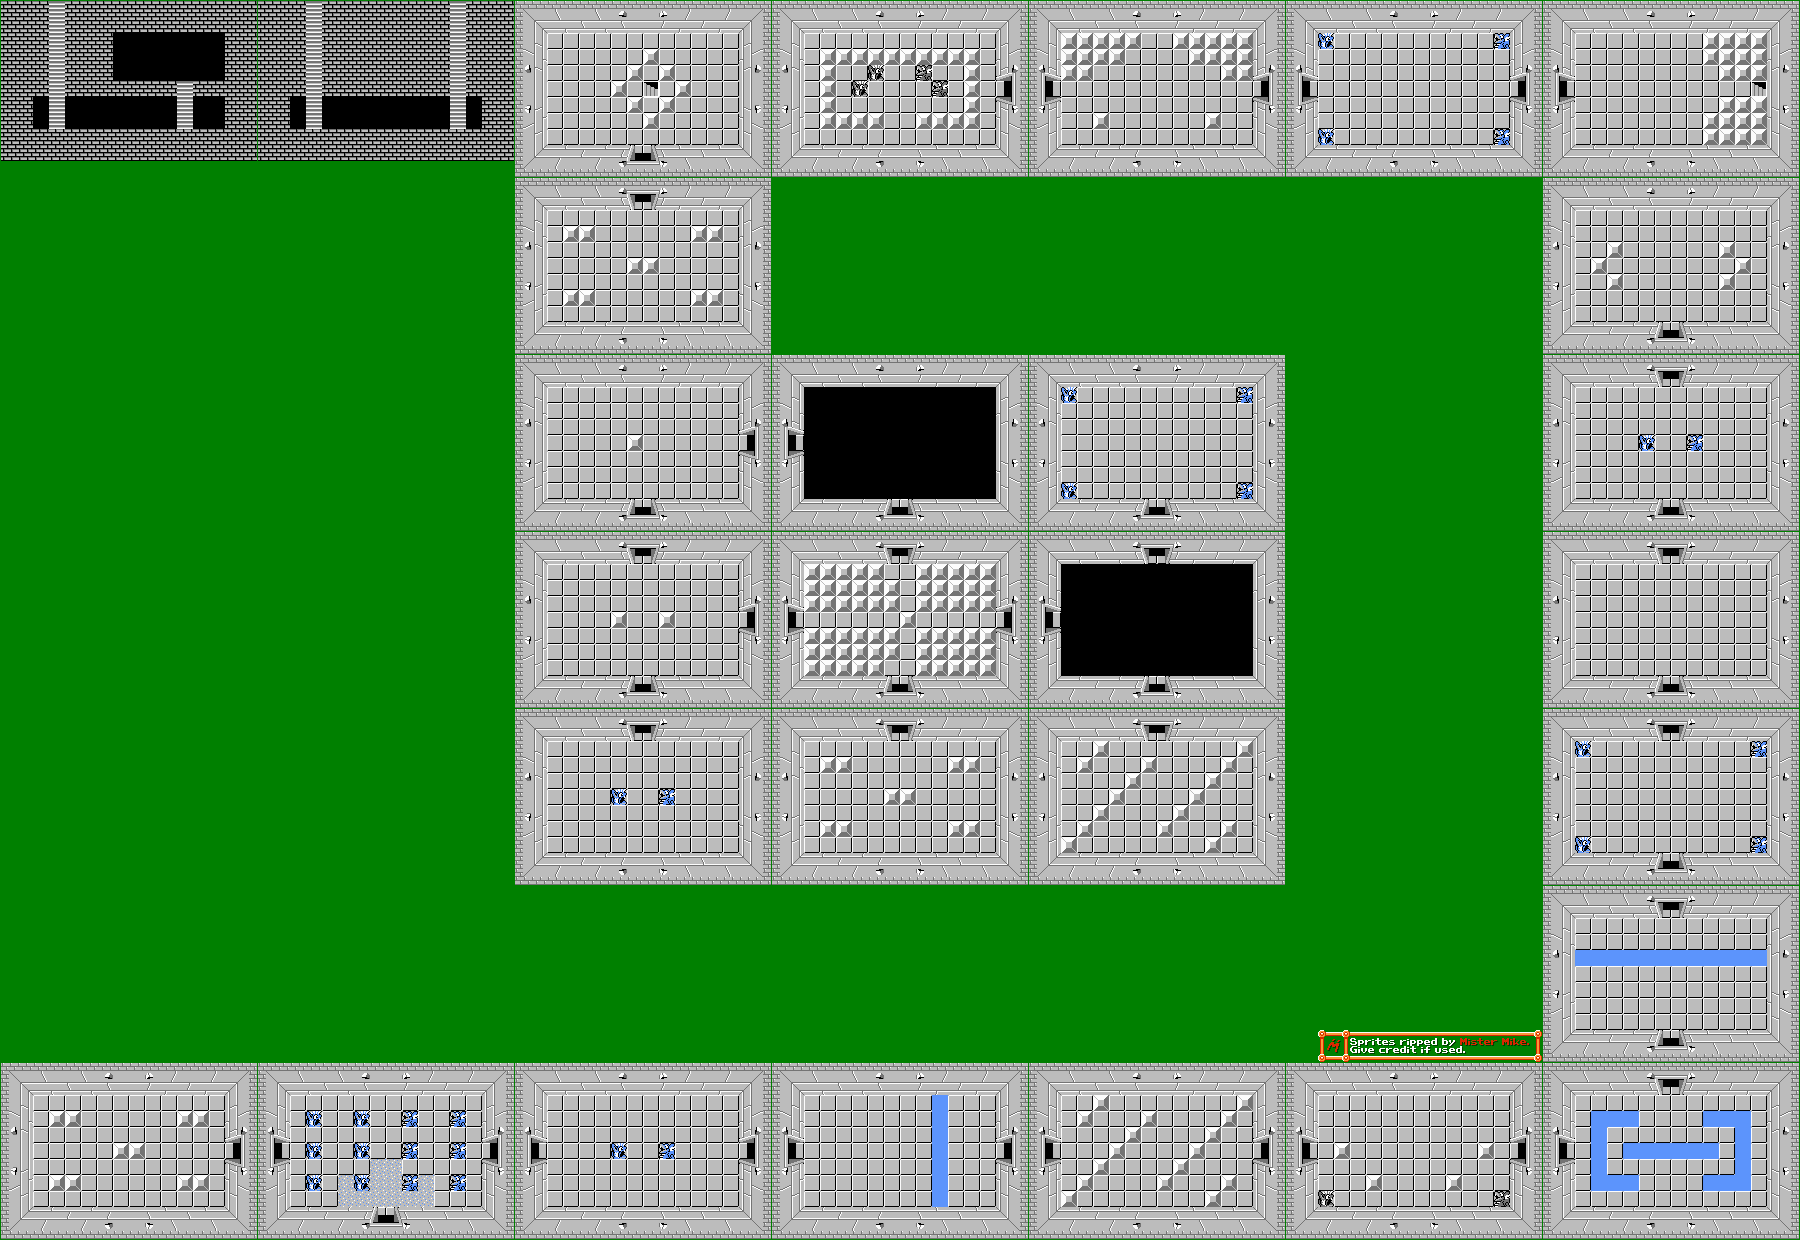
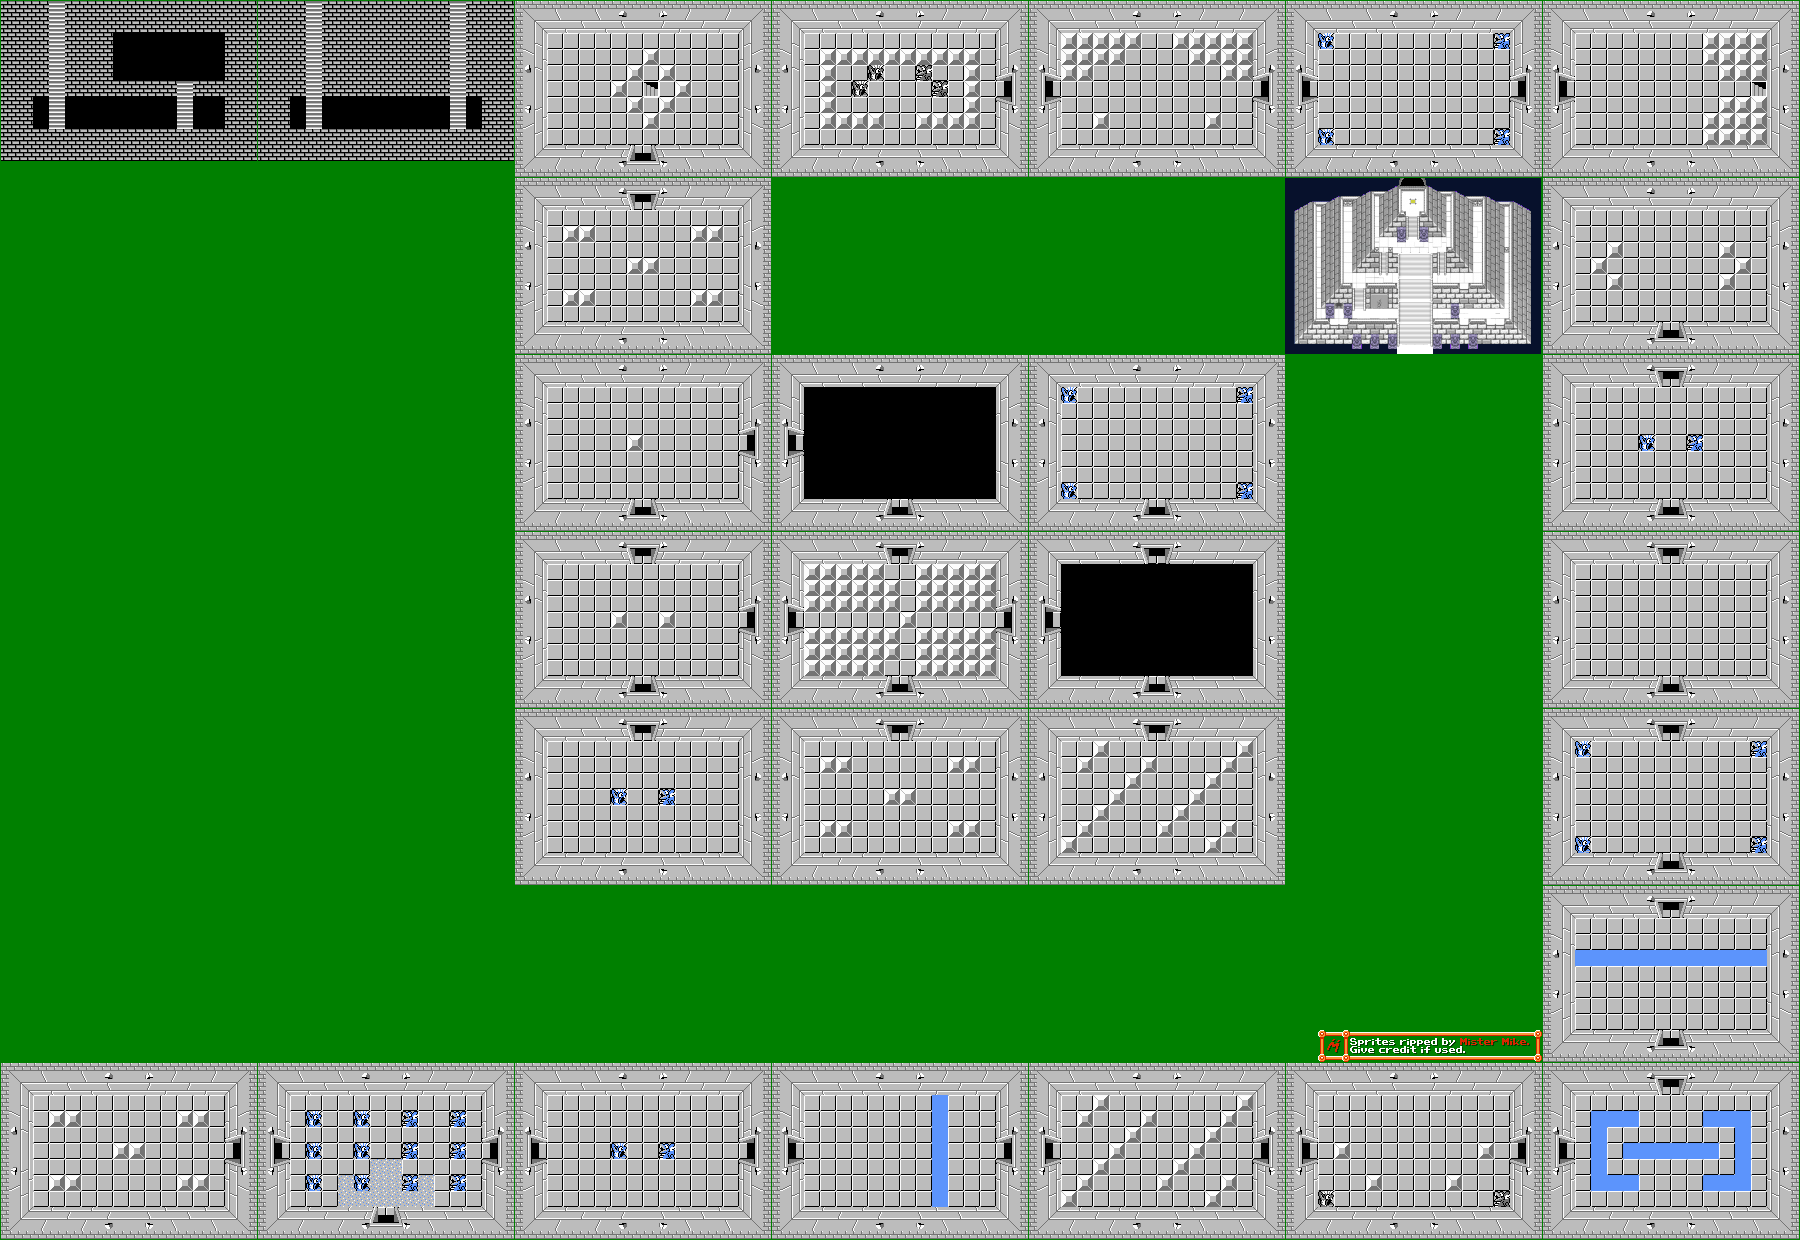
new XMLs for rooms have been finished and master sword item added to game

Changed region(s): [[0.7156, 0.1226, 0.8711, 0.3065]]

diff --git a/Items/MasterSword.cs b/Items/MasterSword.cs
@@ -1,0 +1,75 @@
+using Microsoft.Xna.Framework;
+using Microsoft.Xna.Framework.Graphics;
+using LegendofZelda.Interfaces;
+
+namespace LegendofZelda.Items
+{
+    public class MasterSword : IItem
+    {
+        // frame count for animating the sword
+        private int currFrames = 0;
+
+        private Texture2D texture;
+        private Rectangle sourceRectangle1;
+        private Rectangle sourceRectangle2;
+        private Rectangle destinationRectangle1;
+        private Rectangle destinationRectangle2;
+        private Rectangle currDestinationRectangle;
+        public Rectangle DestinationRectangle { get => currDestinationRectangle; set => currDestinationRectangle = value; }
+        private int xPos;
+        private int yPos;
+        private int width = 7;
+        private int height = 16;
+
+        public MasterSword(Texture2D itemTexture, int x, int y)
+        {
+            texture = itemTexture;
+            xPos = x;
+            yPos = y;
+            sourceRectangle1 = new Rectangle(104, 16, width, height);
+            sourceRectangle2 = new Rectangle(114, 16, 1, height);
+            destinationRectangle1 = new Rectangle(xPos, yPos, width * 3, height * 3);
+            destinationRectangle2 = new Rectangle((xPos + 9), yPos, (1 * 3), height * 3);
+            currDestinationRectangle = destinationRectangle1;
+        }
+
+        public void Update()
+        {
+            currFrames += 1;
+            if (currFrames >= 100)
+            {
+                currFrames = 0;
+            }
+        }
+        public void Draw(SpriteBatch _spriteBatch)
+        {
+            _spriteBatch.Begin(SpriteSortMode.Deferred, BlendState.AlphaBlend, SamplerState.PointClamp, DepthStencilState.None, RasterizerState.CullCounterClockwise);
+
+            if (currFrames <= 50)
+            {
+                currDestinationRectangle = destinationRectangle1;
+                _spriteBatch.Draw(texture, currDestinationRectangle, sourceRectangle1, Color.White);
+            }
+            else
+            {
+                currDestinationRectangle = destinationRectangle2;
+                _spriteBatch.Draw(texture, currDestinationRectangle, sourceRectangle2, Color.White);
+            }
+
+
+            _spriteBatch.End();
+        }
+
+        public Rectangle GetHitbox()
+        {
+            return destinationRectangle1;
+        }
+
+        public string toString()
+        {
+            return "master sword";
+        }
+    }
+
+
+}

diff --git a/Game1.cs b/Game1.cs
@@ -167,7 +167,7 @@ public class Game1 : Game
         var enviroment = Environment.CurrentDirectory;
         string directory = Directory.GetParent(enviroment).Parent.Parent.FullName;
 
-        for (int i = 0; i <= 19; i++)
+        for (int i = 0; i <= 22; i++)
         {
             var roomNumber = i.ToString();
             var FilePath = directory + fileFolder + roomNumber + ".xml";
@@ -175,7 +175,7 @@ public class Game1 : Game
             rooms.Add(roomloader.ParseXML(xml));
         }
 
-        currentRoomIndex = 19;
+        currentRoomIndex = 21;
         currentRoom = rooms[currentRoomIndex];
         Link.Instance.getGame(this);
     }

diff --git a/HeadsUpDisplay/Hud Sprites/Hud Map Sprites/LinkLocationTracker.cs b/HeadsUpDisplay/Hud Sprites/Hud Map Sprites/LinkLocationTracker.cs
@@ -47,6 +47,9 @@ namespace Sprites
             linkLocations.Add(new Vector2(x + 38, y + 2)); //room 17
             linkLocations.Add(new Vector2(x, y)); //room 18
             linkLocations.Add(new Vector2(x, y)); //room 19
+            linkLocations.Add(new Vector2(x, y)); //room 20
+            linkLocations.Add(new Vector2(x, y)); //room 21
+            linkLocations.Add(new Vector2(x, y)); //room 22
             this.location = linkLocations[Link.Instance.game.currentRoomIndex];
             this.destinationRectangle = new((int)this.location.X, (int)this.location.Y, width * 6, height * 6);
         }

diff --git a/Backgrounds/Backgrounds.cs b/Backgrounds/Backgrounds.cs
@@ -48,7 +48,8 @@ namespace LegendofZelda
             sourceRectangles.Add(new(258, 1, width, height));
             sourceRectangles.Add(new(1, 1, width, height - 16));
             sourceRectangles.Add(new(258, 886, width, height));
-            sourceRectangles.Add(new(1543, 532, width, height));
+            sourceRectangles.Add(new(1543, 532, width, height)); // white boss room
+            sourceRectangles.Add(new(1285, 178, width, height)); // master sword room
 
             sourceRectangle = sourceRectangles[roomNumber];
             backgroundLocation = new(sourceRectangle.X, sourceRectangle.Y);

diff --git a/Blocks/Bounding/HorizontalHalfBoundingBlock.cs b/Blocks/Bounding/HorizontalHalfBoundingBlock.cs
@@ -31,7 +31,7 @@ namespace LegendofZelda.Blocks
         public void Draw(SpriteBatch _spriteBatch)
         {
             _spriteBatch.Begin(SpriteSortMode.Deferred, BlendState.AlphaBlend, SamplerState.PointClamp, DepthStencilState.None, RasterizerState.CullCounterClockwise);
-            _spriteBatch.Draw(texture, destinationRectangle, sourceRectangle, Color.White  * 0.00f);
+            _spriteBatch.Draw(texture, destinationRectangle, sourceRectangle, Color.White * 0.00f);
             _spriteBatch.End();
         }
 

diff --git a/Rooms/Graph.cs b/Rooms/Graph.cs
@@ -21,8 +21,8 @@ namespace LegendofZelda
         {
             leftRightAdj = new List<Tuple<int, int>>();
             upDownAdj = new List<Tuple<int, int>>();
-            visited = new bool[19];
-            for (int i = 1; i < 19; i++)
+            visited = new bool[22];
+            for (int i = 1; i < 22; i++)
             {
                 visited[i] = false;
             }

diff --git a/SpriteFactories/ItemSpriteFactory.cs b/SpriteFactories/ItemSpriteFactory.cs
@@ -93,6 +93,10 @@ namespace LegendofZelda.SpriteFactories
 
                     return new Key(spriteSheet, (int)location.X, (int)location.Y + inventoryHeight);
 
+                case "MasterSword":
+
+                    return new MasterSword(spriteSheet, (int)location.X, (int)location.Y + inventoryHeight);
+
                 default:
 
                     return null;

diff --git a/Link/Inventory.cs b/Link/Inventory.cs
@@ -19,6 +19,7 @@ namespace LegendofZelda
             this.inventory.Add("boomerang", 0);
             this.inventory.Add("small red heart", 0);
             this.inventory.Add("small blue heart", 0);
+            this.inventory.Add("master sword", 0);
         }
         public int getItemCount(string itemStr)
         {   

diff --git a/Blocks/Other/Fire.cs b/Blocks/Other/Fire.cs
@@ -34,6 +34,10 @@ namespace LegendofZelda.Blocks
         public void Update()
         {
             currFrames += 34;
+            if (currFrames >= 2000)
+            {
+                currFrames = 0;
+            }
         }
 
         // NOTE: All of these source Rectangles are using placeholder values for now

diff --git a/Commands/NextRoomCommand.cs b/Commands/NextRoomCommand.cs
@@ -16,7 +16,7 @@ namespace Commands
         public void Execute()
         {
 
-            if (myGame.currentRoomIndex == 19)
+            if (myGame.currentRoomIndex == 22)
             {
                 myGame.currentRoomIndex = 0;
             }

diff --git a/Commands/PreviousRoomCommand.cs b/Commands/PreviousRoomCommand.cs
@@ -25,7 +25,7 @@ namespace Commands
 
             if (myGame.currentRoomIndex == 0)
             {
-                myGame.currentRoomIndex = 18;
+                myGame.currentRoomIndex = 22;
             }
             else
             {
